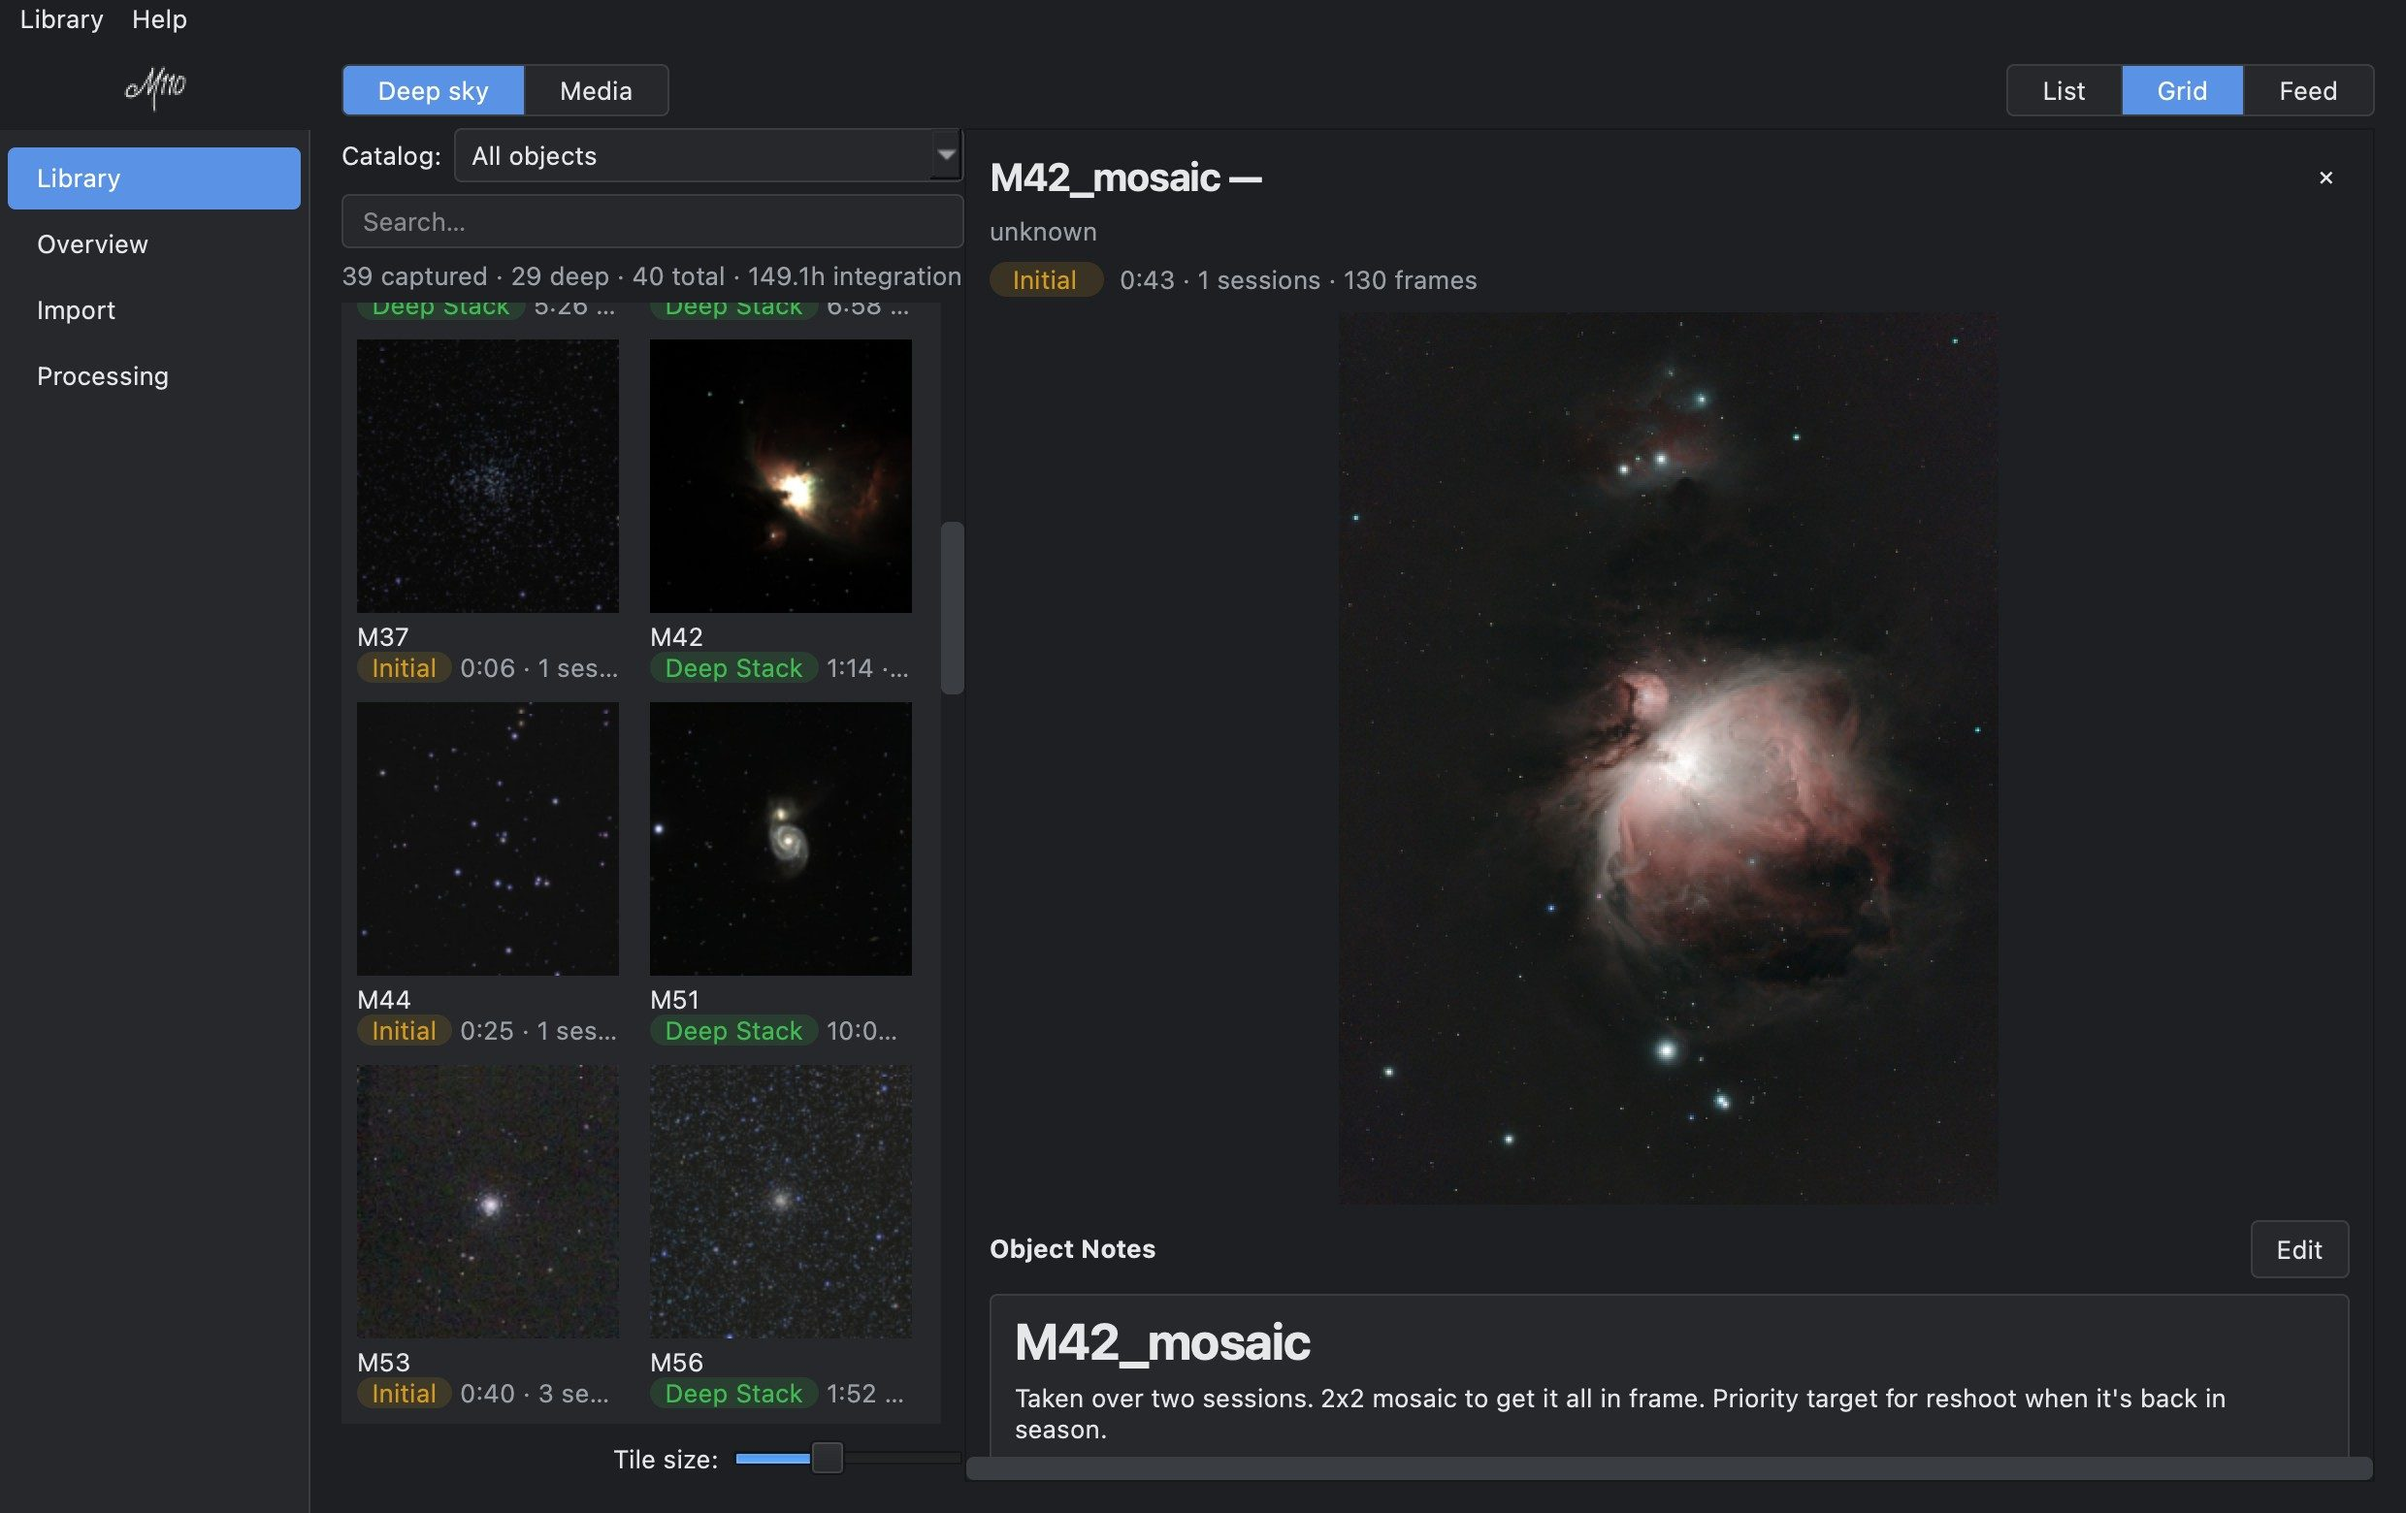
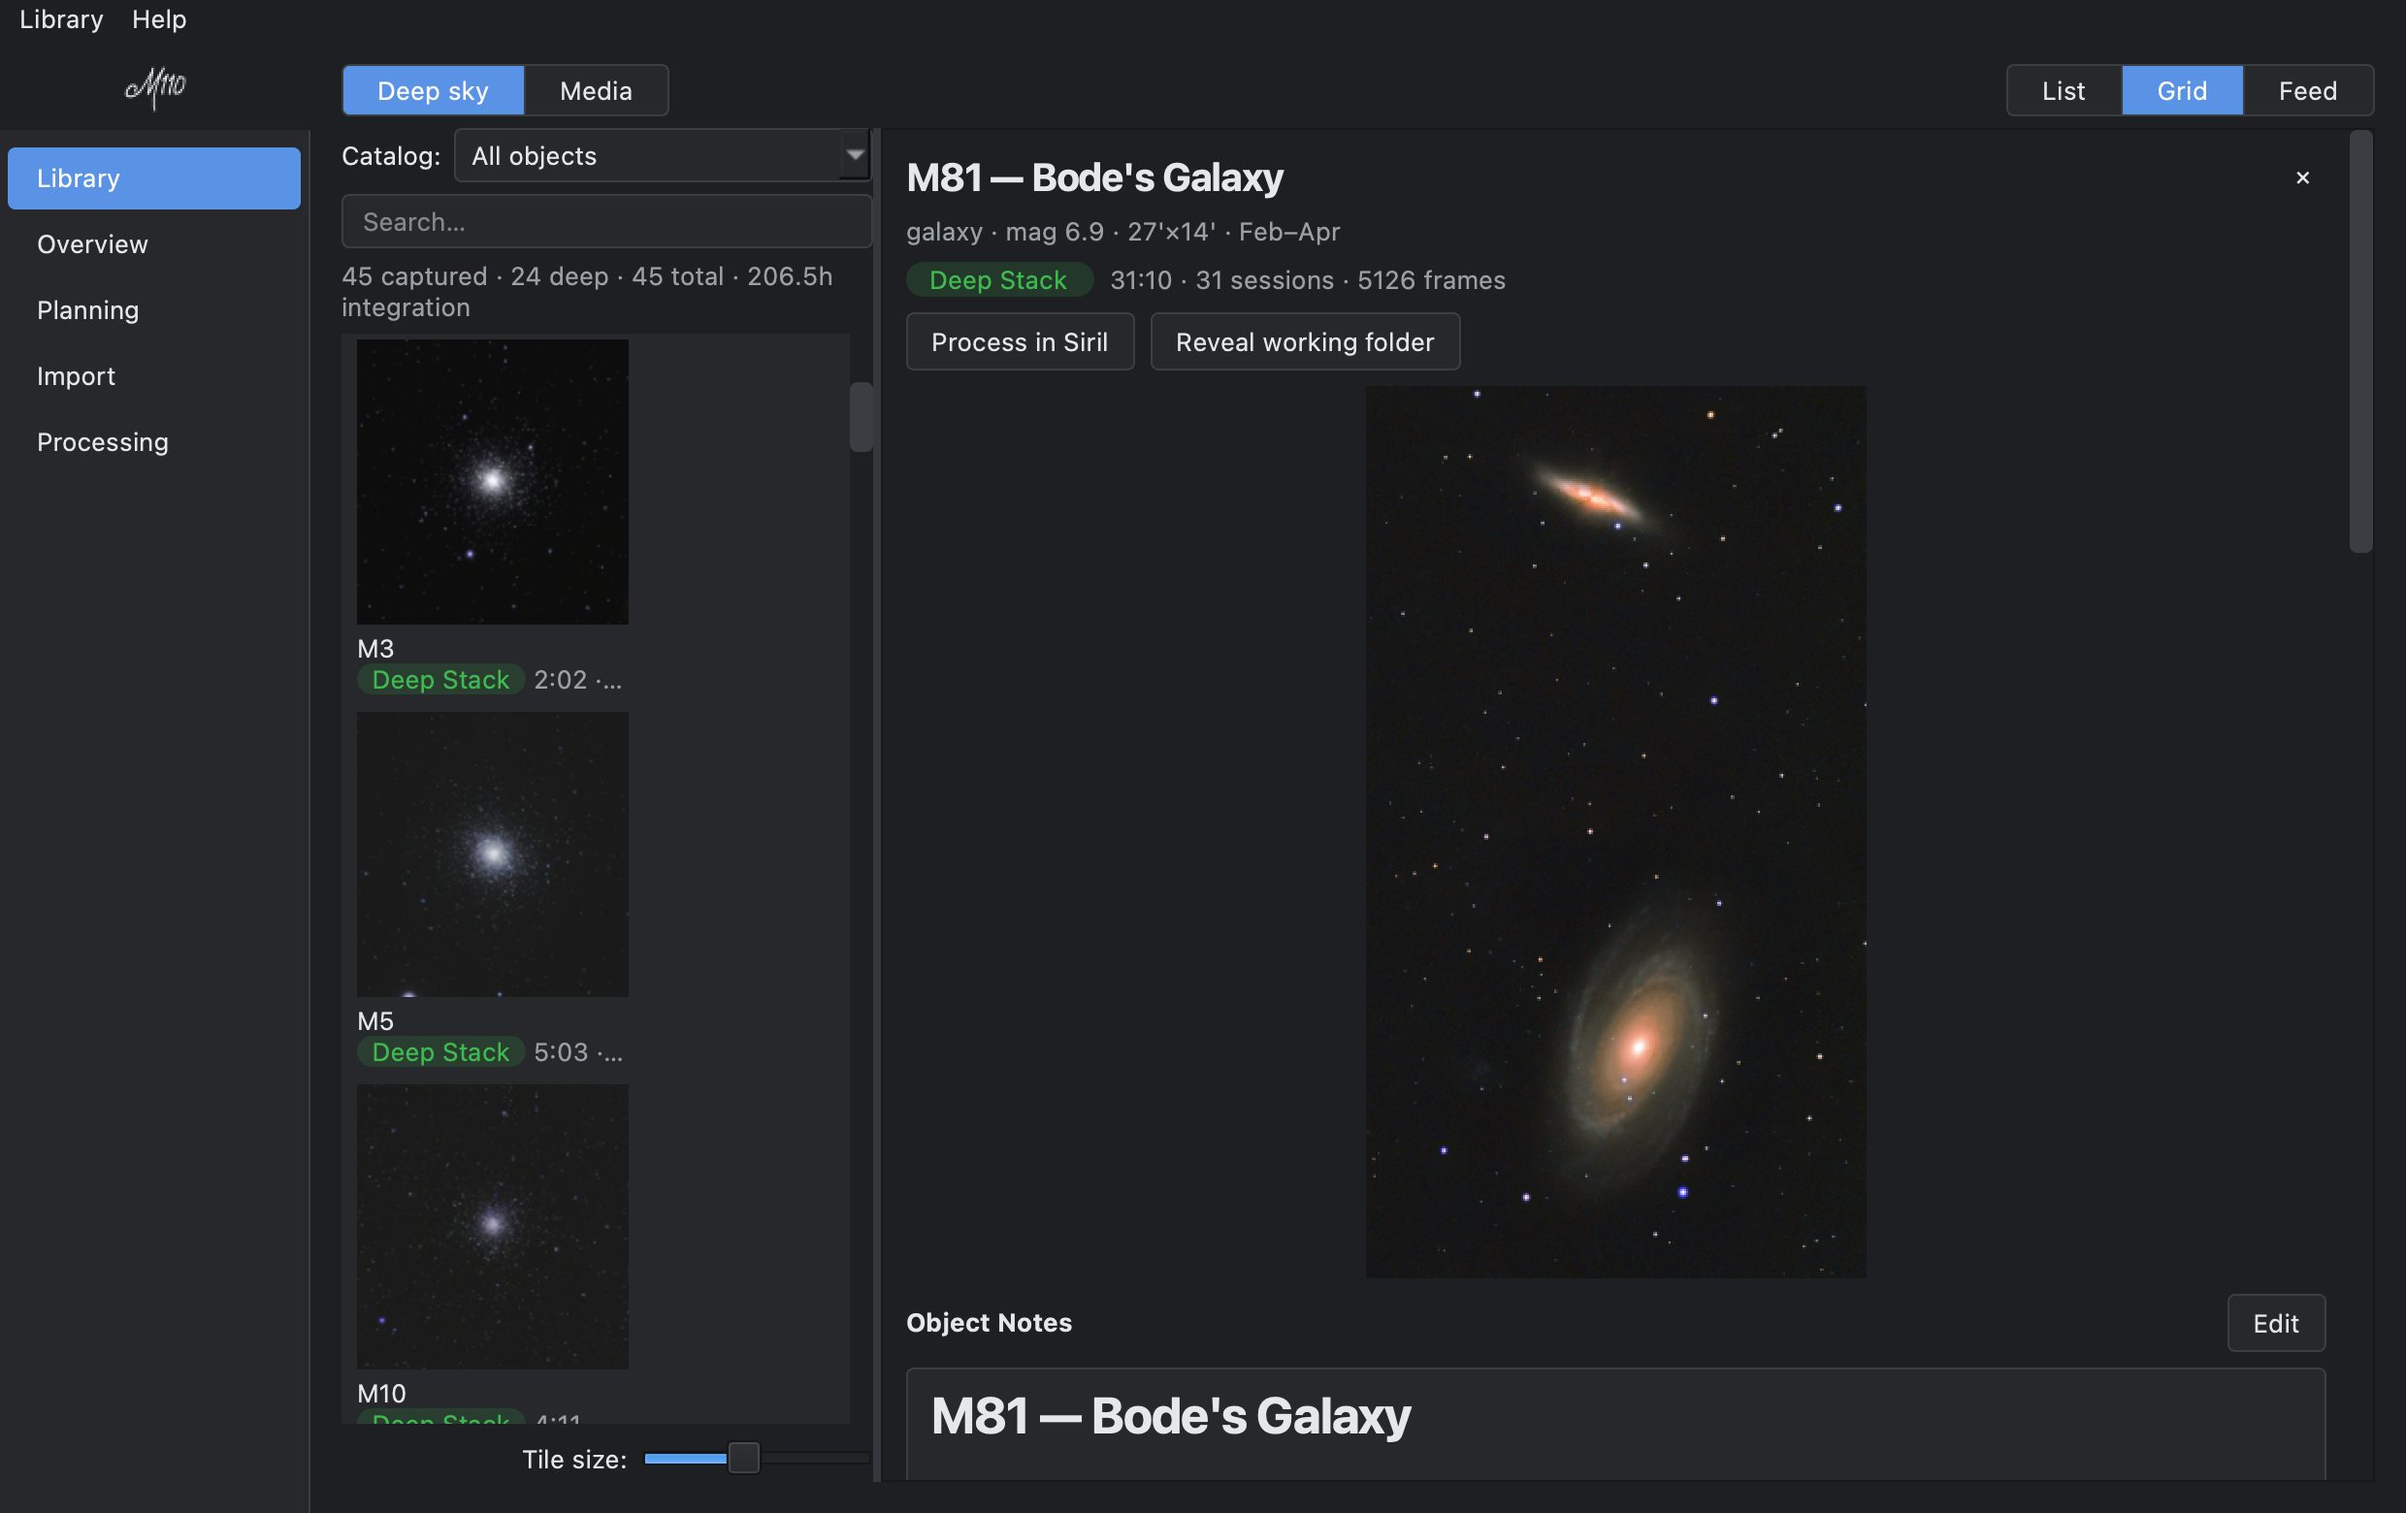
site: refresh screenshots (+ Planning) and copy; add a screenshot script
The three landing-page screenshots were 141 commits stale (before Dwarf
support, the Planning arc, publishing) and there was no committed way to
regenerate them.

- tools/gen_screenshots.py: a reproducible offscreen render of the real
  MainWindow. Defaults to the live ~/Documents/M110 (real data for the site) and
  is read-only against the store (sets `_ready=False`, neutering the launch
  refresh + update-check thread, and redirects settings to a throwaway so it
  can't change the user's prefs); M110_SCREENSHOT_ROOT / --root point it at a
  test corpus for other contributors. Dark mode, 1240x780 @2x progressive JPEG.
- Regenerate shot-library / shot-detail / shot-summary from real data and add a
  new shot-planning (the priority ranking) — the biggest previously-unshown
  feature. Fix the detail alt text (now the M81/M82 pair, not Orion).
- index.html: add a "Plan your nights" feature card and the Planning figure;
  broaden the pitch + meta description to mention planning + backups.

diff --git a/site/index.html b/site/index.html
@@ -4,7 +4,7 @@
 <meta charset="utf-8">
 <meta name="viewport" content="width=device-width, initial-scale=1">
 <title>M110 — Complete the catalog</title>
-<meta name="description" content="M110 is a desktop app for managing a smart-telescope deep-sky imaging collection — a photo library for your telescope, with capture tracking, Seestar & DwarfLab ingest, and Siril processing-prep.">
+<meta name="description" content="M110 is a desktop app for managing a smart-telescope deep-sky imaging collection — a photo library for your telescope, with capture tracking, Seestar & DwarfLab ingest, Siril processing-prep, and session planning.">
 <link rel="icon" type="image/png" href="assets/app-icon.png">
 
 <!-- Open Graph / social preview (Discord, Reddit link unfurls) -->
@@ -127,8 +127,8 @@
   <p class="tagline">Complete the catalog.</p>
   <p class="pitch"><strong>A photo library for your smart telescope.</strong> A desktop
   app that turns a growing pile of Seestar or DwarfLab captures into an organized deep-sky
-  library — catalog, capture tracking, ingest, and Siril processing-prep, with a
-  north-star goal to chase.</p>
+  library — catalog, capture tracking, ingest, Siril processing-prep, session planning,
+  and safe backups, with a north-star goal to chase.</p>
   <p>
     <a class="btn" href="#download">Download for macOS · Linux · Windows</a>
     <a class="btn secondary" href="https://github.com/mjm1138/m110/blob/main/docs/README.md">Read the user guide</a>
@@ -173,8 +173,15 @@
     <div class="feature">
       <div class="ico">🎯</div>
       <h3>A goal to chase</h3>
-      <p>Track your progress through a curated catalog, or your own custom goals. 
-        See what's up tonight and what's still missing. Named for the 110th and final Messier object.</p>
+      <p>Track your progress through a curated catalog (Messier, Caldwell, and more) or
+      your own custom goals — always knowing what's still missing. Named for the 110th
+      and final Messier object.</p>
+    </div>
+    <div class="feature">
+      <div class="ico">🌙</div>
+      <h3>Plan your nights</h3>
+      <p>See what's up tonight, ranked by what your goals need — with a moon-aware
+      schedule, an altitude timeline, and a printable field guide for the session.</p>
     </div>
     <div class="feature">
       <div class="ico">💾</div>
@@ -195,13 +202,18 @@
     </figure>
     <figure class="shot">
       <img src="assets/shot-detail.jpg" width="1240" height="780" loading="lazy"
-           alt="M110 object detail — an Orion Nebula mosaic hero with capture stats and notes">
+           alt="M110 object detail — the M81 and M82 galaxies as a hero image with capture stats and notes">
       <figcaption>Every object, with its story</figcaption>
     </figure>
     <figure class="shot">
       <img src="assets/shot-summary.jpg" width="1240" height="780" loading="lazy"
            alt="M110 Overview — goal progress, integration time by object, and recent sessions">
       <figcaption>Track your progress toward your goals</figcaption>
+    </figure>
+    <figure class="shot">
+      <img src="assets/shot-planning.jpg" width="1240" height="780" loading="lazy"
+           alt="M110 Planning — tonight's priority targets ranked by goal, season, and visibility">
+      <figcaption>Know what to shoot tonight</figcaption>
     </figure>
   </div>
 </section>

diff --git a/tools/gen_screenshots.py b/tools/gen_screenshots.py
@@ -1,0 +1,173 @@
+#!/usr/bin/env python3
+"""Render M110 UI screenshots for the website / docs, reproducibly.
+
+A headless (offscreen) render of the real ``MainWindow`` against a data root —
+no window management, no computer-use, and it writes **nothing** to the store.
+Follows the recipe in CLAUDE.md ("Capturing UI screenshots"): build the window,
+set ``_ready = False`` (neuters the launch refresh + the update-check network
+thread, so rendering against the *live* store is read-only), pump the async
+thumbnail/hero loaders, then render into a 2× ``QPixmap`` and save a progressive
+JPEG sized for the site (1240×780 → 2480×1560 retina).
+
+Root selection — real data for the site; a corpus for other contributors:
+    default                     ~/Documents/M110  (your live library)
+    --root DIR                  an explicit data root
+    M110_SCREENSHOT_ROOT=DIR    env override (e.g. a generated test corpus)
+
+Usage:
+    python tools/gen_screenshots.py                       # → site/assets/shot-*.jpg
+    python tools/gen_screenshots.py --root ~/Documents/M110-test
+    M110_SCREENSHOT_ROOT=~/Documents/M110-test python tools/gen_screenshots.py
+"""
+from __future__ import annotations
+
+import argparse
+import json
+import os
+import sys
+import tempfile
+import time
+from pathlib import Path
+
+os.environ.setdefault("QT_QPA_PLATFORM", "offscreen")
+
+W, H, SCALE = 1240, 780, 2                      # site asset size + retina factor
+REPO_ROOT = Path(__file__).resolve().parent.parent
+DEFAULT_OUT = REPO_ROOT / "site" / "assets"
+
+
+def _pump(app, seconds: float):
+    end = time.monotonic() + seconds
+    while time.monotonic() < end:
+        app.processEvents()
+        time.sleep(0.02)
+
+
+def _pump_until(app, pred, timeout: float) -> bool:
+    end = time.monotonic() + timeout
+    while time.monotonic() < end:
+        app.processEvents()
+        try:
+            if pred():
+                return True
+        except Exception:
+            pass
+        time.sleep(0.05)
+    try:
+        return bool(pred())
+    except Exception:
+        return False
+
+
+def _shot(win, app, path: Path, settle: float = 3.0):
+    from PySide6.QtCore import Qt
+    from PySide6.QtGui import QPixmap
+    from PIL import Image
+    _pump(app, settle)                          # let hero/thumbnail loaders populate
+    pm = QPixmap(W * SCALE, H * SCALE)
+    pm.setDevicePixelRatio(SCALE)
+    pm.fill(Qt.GlobalColor.transparent)
+    win.render(pm)
+    tmp = Path(tempfile.mkdtemp()) / "shot.png"
+    pm.save(str(tmp), "PNG")
+    Image.open(tmp).convert("RGB").save(
+        str(path), "JPEG", quality=82, optimize=True, progressive=True)
+    tmp.unlink()
+    print(f"  wrote {path.name}  ({path.stat().st_size // 1024} KB, {W*SCALE}×{H*SCALE})")
+
+
+def _pick_detail_slug():
+    """A hero-bearing object with the richest gallery — makes a full detail pane."""
+    from m110 import config
+    try:
+        imgs = json.loads((config.DERIVED_DIR / "images.json").read_text())
+    except Exception:
+        return None
+    best, best_n = None, -1
+    for slug, items in imgs.items():
+        if (config.HERO_DIR / f"{slug}.jpg").exists() and len(items or []) > best_n:
+            best, best_n = slug, len(items or [])
+    return best
+
+
+def build(root: Path, out_dir: Path):
+    from m110 import config
+    os.environ["M110_DATA_ROOT"] = str(root)
+    config.set_data_root(root)
+    # Never touch the user's real ~/.m110/settings.json — theme + view prefs go to
+    # a throwaway file, so screenshots don't change their preferences.
+    config.SETTINGS_FILE = Path(tempfile.mkdtemp()) / "settings.json"
+
+    from PySide6.QtWidgets import QApplication
+    app = QApplication.instance() or QApplication(sys.argv[:1])
+    from m110.ui import theme
+    theme.install(app)
+    theme.set_mode("dark")                      # the site uses dark-mode shots
+
+    from m110.ui.main import MainWindow
+    win = MainWindow()
+    win._ready = False                          # READ-ONLY: no launch refresh / net thread
+    win.resize(W, H)
+    win.statusBar().hide()                      # keep the local data-root path out of frame
+    win.show()
+    _pump(app, 1.0)
+    out_dir.mkdir(parents=True, exist_ok=True)
+
+    # 1) Library — the thumbnail grid (home view)
+    win.nav.setCurrentRow(win._catalog_index)
+    _shot(win, app, out_dir / "shot-library.jpg")
+
+    # 2) Object detail — a hero-bearing object with the fullest gallery
+    slug = _pick_detail_slug()
+    if slug:
+        win.open_object(slug)
+        try:
+            win.catalog.splitter.setSizes([320, 900])   # favour the detail/hero pane
+        except Exception:
+            pass
+        _shot(win, app, out_dir / "shot-detail.jpg")
+    else:
+        print("  (no hero-bearing object found — skipping shot-detail.jpg)")
+
+    # 3) Overview — the dashboard
+    win.nav.setCurrentRow(win._overview_index)
+    _shot(win, app, out_dir / "shot-summary.jpg", settle=2.5)
+
+    # 4) Planning — the priority ranking, plus a night plan + timeline if it computes
+    win.nav.setCurrentRow(win._planning_index)
+    _pump(app, 1.0)
+    try:
+        win.planning._render_ranking()          # from the cached prioritized.json (no write)
+    except Exception as e:
+        print(f"  (planning ranking not rendered: {e})")
+    try:                                         # optional: tonight's plan drives the timeline
+        win.planning._on_generate()
+        _pump_until(app, lambda: win.planning._plan_table.rowCount() > 0, 30)
+    except Exception as e:
+        print(f"  (planning night-plan skipped: {e})")
+    _shot(win, app, out_dir / "shot-planning.jpg", settle=2.0)
+
+    win.close()
+    _pump(app, 0.3)
+
+
+def main():
+    ap = argparse.ArgumentParser(
+        description=__doc__, formatter_class=argparse.RawDescriptionHelpFormatter)
+    default_root = os.environ.get("M110_SCREENSHOT_ROOT") or str(Path.home() / "Documents" / "M110")
+    ap.add_argument("--root", default=default_root,
+                    help="data root to render (default: $M110_SCREENSHOT_ROOT or ~/Documents/M110)")
+    ap.add_argument("--out", type=Path, default=DEFAULT_OUT,
+                    help=f"output dir for shot-*.jpg (default: {DEFAULT_OUT})")
+    args = ap.parse_args()
+
+    root = Path(args.root).expanduser().resolve()
+    if not root.exists():
+        sys.exit(f"data root not found: {root}")
+    print(f"Rendering screenshots from {root}  →  {args.out}")
+    build(root, args.out.expanduser().resolve())
+    print("Done.")
+
+
+if __name__ == "__main__":
+    main()
